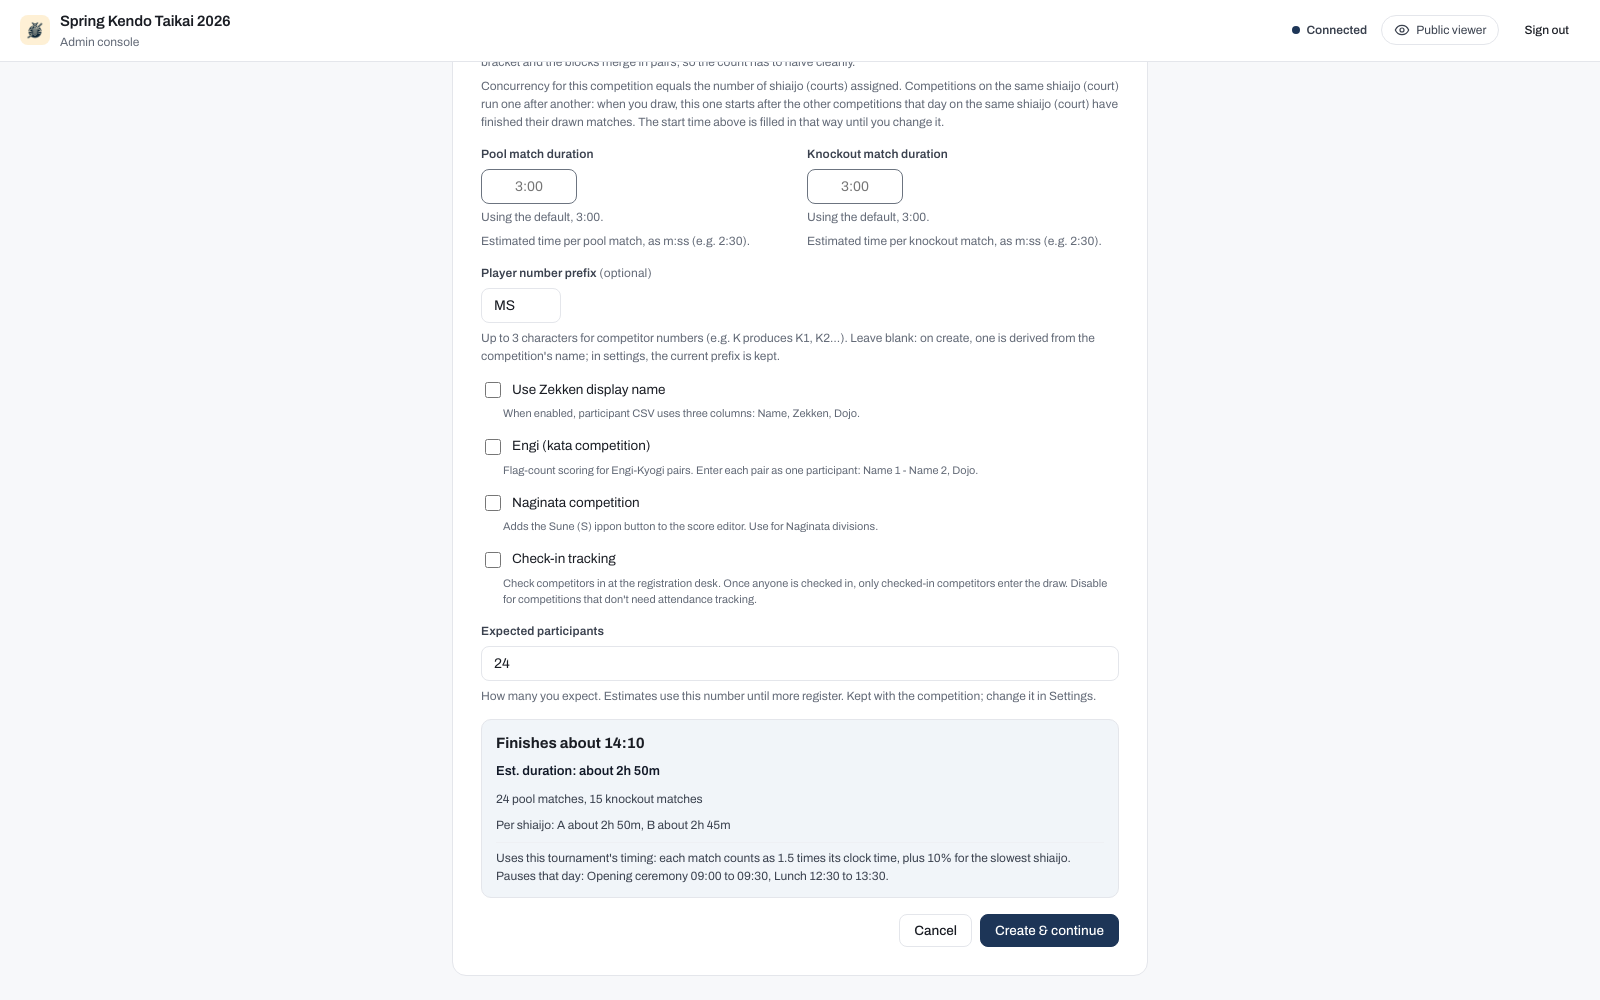
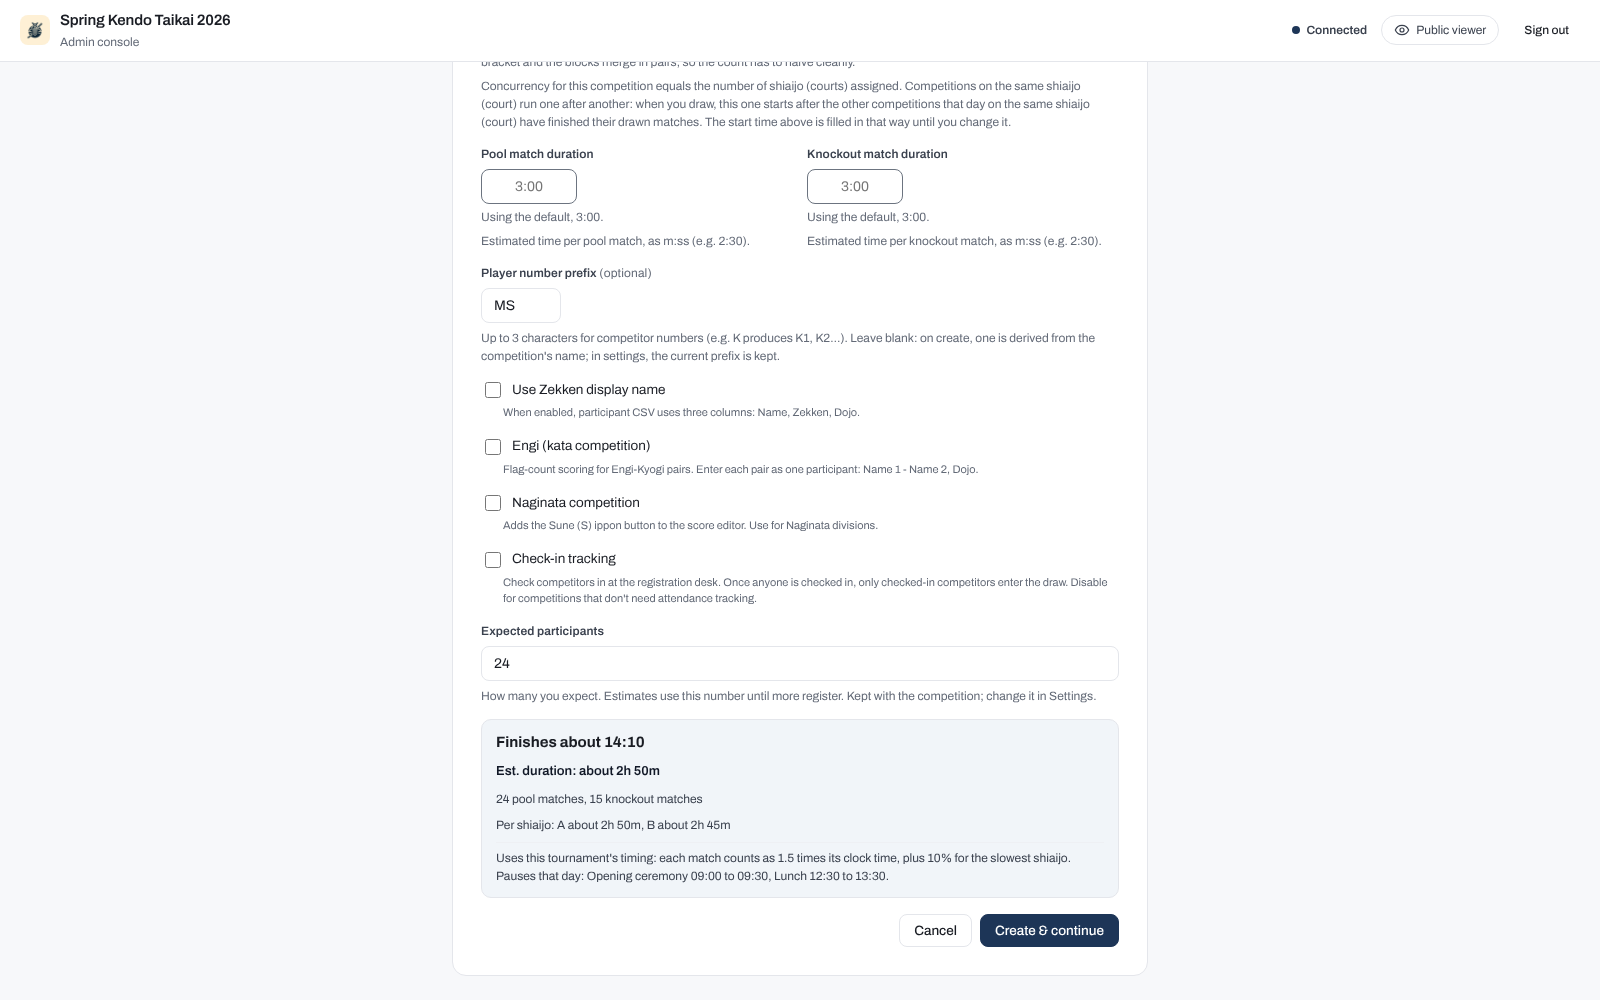
fix(bc-rrsh): drop a stale pool_format key on load; review polish
An old config.md that still holds pool_format now has the key removed
by the legacy upgrade pass, alongside the retired league tiebreak keys
(upgradeRetiredConfigKeysLocked), so the file matches what a save
writes. Pinned by TestLegacyUpgrade_DropsRetiredPoolFormatKey.

Also restores describeSettingsEdits to its original map, re-wraps a
comment in admin_setup.jsx, and recaptures the three Add competition
docs screenshots with the Who fights whom control.

diff --git a/web-mobile/js/admin_setup.jsx b/web-mobile/js/admin_setup.jsx
@@ -1155,8 +1155,9 @@ function AdminCreateCompetition({ tournament, onCancel, onCreate, onLogout, onVi
       roundRobin,
     });
     // Knockout qualifiers (bc-qual LP-5a). Set after construction:
-    // buildCompetition (data.jsx) takes no such argument. Only meaningful for "mixed" (pools + knockout); the
-    // radio itself only renders under poolMode === "min", and
+    // buildCompetition (data.jsx) takes no such argument. Only meaningful
+    // for "mixed" (pools + knockout); the radio itself only renders under
+    // poolMode === "min", and
     // resetExtraQualifiersOnPoolModeChange keeps the stored value at
     // standard ("") whenever poolMode isn't "min", so this is never a
     // non-standard value outside the shape ValidateExtraQualifiers accepts.

diff --git a/web-mobile/js/competition_put_body.jsx b/web-mobile/js/competition_put_body.jsx
@@ -166,10 +166,10 @@ export function describeSettingsEdits(edits) {
   if (!edits || typeof edits !== "object") return "";
   const keys = Object.keys(edits);
   if (keys.length === 0) return "";
-  const parts = [];
-  keys.forEach((k) => {
+  const parts = keys.map((k) => {
     const label = SETTINGS_FIELD_LABELS[k] || k;
-    parts.push(`${label} to ${formatEditValue(k, edits[k])}`);
+    const val = formatEditValue(k, edits[k]);
+    return `${label} to ${val}`;
   });
   return parts.join(", ") + ".";
 }

diff --git a/internal/state/legacy_upgrade.go b/internal/state/legacy_upgrade.go
@@ -324,9 +324,9 @@ func (s *Store) EnsureLegacyUpgraded(compID string) {
 	if err := s.upgradeCompetitionFormatLocked(compID); err != nil {
 		log.Printf("state: legacy competition-format upgrade for %s: %v", compID, err)
 	}
-	// The retired league tie-break keys, independent of the roster too.
-	if err := s.upgradeRetiredLeagueTiebreakKeysLocked(compID); err != nil {
-		log.Printf("state: legacy league tie-break keys upgrade for %s: %v", compID, err)
+	// The retired config.md keys, independent of the roster too.
+	if err := s.upgradeRetiredConfigKeysLocked(compID); err != nil {
+		log.Printf("state: retired config keys upgrade for %s: %v", compID, err)
 	}
 	// One roster load shared by every step below: built
 	// LAZILY on first actual use, and loaded/indexed at most ONCE rather
@@ -542,25 +542,26 @@ func (s *Store) upgradeCompetitionFormatLocked(compID string) error {
 	return s.saveCompetitionLocked(comp, s.directWrite)
 }
 
-// retiredLeagueTiebreakKey finds a config.md front-matter line naming one of
-// the two league tie-break settings retired by the tie rule (only 3rd can be
-// shared): league_tiebreak_finalized (Accept shared ranks, removed with its
-// Undo) and league_tiebreak_top_n (the Break ties for top setting, removed:
-// every league breaks its ties at 1st to 3rd). Both were written by every
-// release from v0.17.0.
-var retiredLeagueTiebreakKey = regexp.MustCompile(`(?m)^league_tiebreak_(finalized|top_n)[ \t]*:`)
+// retiredConfigKey finds a config.md front-matter line naming a retired
+// setting: the two league tie-break settings retired by the tie rule (only 3rd
+// can be shared), league_tiebreak_finalized (Accept shared ranks, removed with
+// its Undo) and league_tiebreak_top_n (the Break ties for top setting, removed:
+// every league breaks its ties at 1st to 3rd), both written by every release
+// from v0.17.0; and pool_format (the line pool shape, removed), written from
+// v0.16.0 whenever it was set. The pool shape is now roundRobin's alone, since
+// every competitor in a pool fights the same number of times.
+var retiredConfigKey = regexp.MustCompile(`(?m)^(league_tiebreak_(finalized|top_n)|pool_format)[ \t]*:`)
 
-// upgradeRetiredLeagueTiebreakKeysLocked drops the retired league tie-break
-// keys (retiredLeagueTiebreakKey) from compID's config.md and changes nothing
-// else: the competition is loaded and saved again through the struct, which no
-// longer holds them, exactly as upgradeCompetitionFormatLocked converges a
-// retired format. A file holding neither key is never written, so a second load
-// writes nothing. Nothing is recomputed at upgrade: a finished league whose
-// shared ranks were accepted at 1st or 2nd keeps its status until its next
-// result, withdrawal, reinstatement or lots change, which reopens it through
-// the existing reconciler; nothing is changed at upgrade. Caller holds the
-// per-competition lock.
-func (s *Store) upgradeRetiredLeagueTiebreakKeysLocked(compID string) error {
+// upgradeRetiredConfigKeysLocked drops the retired keys (retiredConfigKey)
+// from compID's config.md and changes nothing else: the competition is loaded
+// and saved again through the struct, which no longer holds them, exactly as
+// upgradeCompetitionFormatLocked converges a retired format. A file holding
+// none of them is never written, so a second load writes nothing. Nothing is
+// recomputed at upgrade: a finished league whose shared ranks were accepted at
+// 1st or 2nd keeps its status until its next result, withdrawal, reinstatement
+// or lots change, which reopens it through the existing reconciler. Caller
+// holds the per-competition lock.
+func (s *Store) upgradeRetiredConfigKeysLocked(compID string) error {
 	raw, err := s.root.readFile(s.compPath(compID, "config.md"))
 	if err != nil {
 		if os.IsNotExist(err) {
@@ -568,7 +569,7 @@ func (s *Store) upgradeRetiredLeagueTiebreakKeysLocked(compID string) error {
 		}
 		return err
 	}
-	if !retiredLeagueTiebreakKey.Match(raw) {
+	if !retiredConfigKey.Match(raw) {
 		return nil
 	}
 	comp, err := s.loadCompetitionLocked(compID)
@@ -578,7 +579,7 @@ func (s *Store) upgradeRetiredLeagueTiebreakKeysLocked(compID string) error {
 	if comp.ID != compID {
 		// upgradeCompetitionFormatLocked's guard: never write another
 		// directory's config.
-		log.Printf("state: legacy league tie-break keys upgrade for %s: config.md id %q does not match its directory; left unconverted", compID, comp.ID)
+		log.Printf("state: retired config keys upgrade for %s: config.md id %q does not match its directory; left unconverted", compID, comp.ID)
 		return nil
 	}
 	return s.saveCompetitionLocked(comp, s.directWrite)

diff --git a/internal/state/legacy_league_tiebreak_upgrade_test.go b/internal/state/legacy_league_tiebreak_upgrade_test.go
@@ -143,3 +143,43 @@ func TestLegacyUpgrade_ConfigWithoutRetiredLeagueTiebreakKeysIsUntouched(t *test
 	require.NoError(t, err)
 	assert.True(t, info.ModTime().Equal(old), "config.md was not written")
 }
+
+// Opening a data folder a released version wrote drops its pool_format key
+// from config.md and changes nothing else: the round_robin value the operator
+// chose is what the pool shape reads, whatever pool_format said.
+func TestLegacyUpgrade_DropsRetiredPoolFormatKey(t *testing.T) {
+	for _, value := range []string{"full", "partial"} {
+		t.Run(value, func(t *testing.T) {
+			dir := t.TempDir()
+			store, err := state.NewStore(dir)
+			require.NoError(t, err)
+			require.NoError(t, store.SaveCompetition(&state.Competition{
+				ID: "mixed-x", Name: "Mixed X", Format: state.CompFormatMixed,
+				Status: state.CompStatusSetup, Courts: []string{"A"},
+				PoolSize: 4, PoolWinners: 2, RoundRobin: false,
+			}))
+			_, err = state.NewStore(dir)
+			require.NoError(t, err)
+			path := filepath.Join(dir, "competitions", "mixed-x", "config.md")
+			current, err := os.ReadFile(path)
+			require.NoError(t, err)
+			require.Contains(t, string(current), "\nround_robin: false\n")
+
+			released := strings.Replace(string(current), "\nround_robin: false\n",
+				"\npool_format: "+value+"\nround_robin: false\n", 1)
+			require.NoError(t, os.WriteFile(path, []byte(released), 0o600))
+
+			store, err = state.NewStore(dir) // the startup sweep runs inside this call
+			require.NoError(t, err)
+			after, err := os.ReadFile(path)
+			require.NoError(t, err)
+			assert.NotContains(t, string(after), "pool_format")
+			assert.Equal(t, string(current), string(after), "nothing else in config.md changes")
+
+			comp, err := store.LoadCompetition("mixed-x")
+			require.NoError(t, err)
+			require.NotNil(t, comp)
+			assert.False(t, comp.RoundRobin, "the stored ring stays the ring")
+		})
+	}
+}
